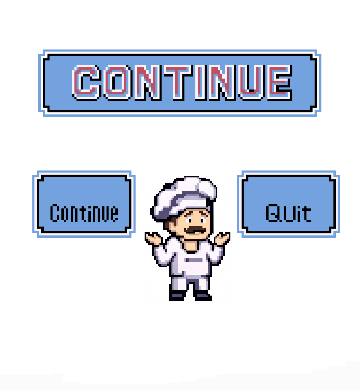
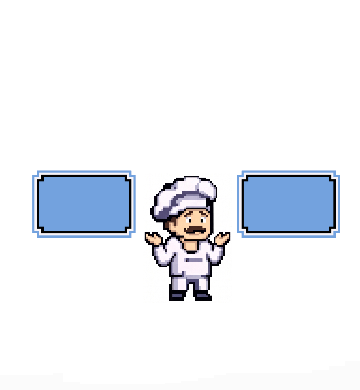
fix: lost a life

Changed region(s): [[0.0917, 0.1231, 0.9167, 0.3077], [0.1222, 0.5231, 0.3361, 0.5846], [0.7333, 0.5231, 0.8556, 0.5846]]

diff --git a/game/src/LifeLostScene.cpp b/game/src/LifeLostScene.cpp
@@ -1,5 +1,4 @@
 #include "LifeLostScene.h" // Includes GLEW, which must go before GLFW
-#include <algorithm>
 #include <GLFW/glfw3.h>
 #include "Game.h"
 
@@ -7,16 +6,14 @@
 #define LIFE_LOST_MIN_TIME 1000 // ms before ENTER is accepted, so it is not skipped by accident
 #define LIFE_LOST_MAX_TIME 3000 // ms until the level starts again by itself
 
-#define HAT_LOSE_TIME 700   // ms until the hat of the life just lost starts to blink
-#define HAT_BLINK_TIME 100  // ms of each state while it blinks
-#define HAT_BLINKS 7        // Changes between lit and gray before it stays gray
+#define LOSE_TIME 700       // ms until the number starts to blink before going down
+#define BLINK_TIME 100      // ms of each number while it blinks
+#define BLINKS 7            // Changes between both numbers before the new one stays
 
 #define CANVAS_TO_UI (UI_WIDTH / 240.f) // The image is 240 px wide
-#define HAT_Y 204.f         // Place of the hats in the image, drawn at x2 like the chef
+#define HAT_Y 204.f         // Place of the hat in the image, drawn at x2 like the chef
 #define HAT_WIDTH 50.f
 #define HAT_HEIGHT 44.f
-#define HAT_STEP 56.f       // From one hat to the next
-#define MAX_HATS 4          // The most that fit; with more lives (up to MAX_LIVES with 'Extra life') a hat and "x N" are shown
 
 // The "x" and the digits of the counter (tools/title_font.py), centered with the hat
 #define TIMES_WIDTH 17.f
@@ -37,7 +34,6 @@ void LifeLostScene::init()
 	ui.init();
 	UIRenderer::loadImage(background, "images/ui/screen_life_lost.png");
 	UIRenderer::loadImage(hat, "images/ui/screen_life_hat.png");
-	UIRenderer::loadImage(grayHat, "images/ui/screen_life_hat_gray.png");
 	UIRenderer::loadImage(times, "images/ui/screen_life_x.png");
 	for(int i = 0; i < 10; i++)
 		UIRenderer::loadImage(digits[i], "images/ui/screen_life_" + std::to_string(i) + ".png");
@@ -56,36 +52,19 @@ int LifeLostScene::update(int deltaTime)
 
 void LifeLostScene::render()
 {
-	// The life just lost blinks before it goes: its hat turns gray, or the counter goes down
-	int blink = int((currentTime - HAT_LOSE_TIME) / HAT_BLINK_TIME);
-	bool lostStillLit = currentTime < HAT_LOSE_TIME || (blink < HAT_BLINKS && blink % 2 != 0);
+	// "x N" with the lives before dying, blinking with the lives left until these stay
+	int blink = int((currentTime - LOSE_TIME) / BLINK_TIME);
+	bool lostStillShown = currentTime < LOSE_TIME || (blink < BLINKS && blink % 2 != 0);
+	float x = (240.f - (HAT_WIDTH + COUNTER_GAP + TIMES_WIDTH + TIMES_GAP + DIGIT_WIDTH)) / 2.f;
+	float textY = HAT_Y + (HAT_HEIGHT - TEXT_HEIGHT) / 2.f;
 
 	ui.begin();
 	ui.drawScreenImage(background);
-	if(lives + 1 > MAX_HATS)
-	{
-		float x = (240.f - (HAT_WIDTH + COUNTER_GAP + TIMES_WIDTH + TIMES_GAP + DIGIT_WIDTH)) / 2.f;
-		float textY = HAT_Y + (HAT_HEIGHT - TEXT_HEIGHT) / 2.f;
-
-		drawCanvasImage(hat, x, HAT_Y, HAT_WIDTH, HAT_HEIGHT);
-		x += HAT_WIDTH + COUNTER_GAP;
-		drawCanvasImage(times, x, textY, TIMES_WIDTH, TEXT_HEIGHT);
-		x += TIMES_WIDTH + TIMES_GAP;
-		drawCanvasImage(digits[lostStillLit ? lives + 1 : lives], x, textY, DIGIT_WIDTH, TEXT_HEIGHT);
-	}
-	else
-	{
-		// The lives left are lit and the one just lost (the next hat) turns gray; the rest are gray.
-		// There are always START_LIVES hats, more if 'Extra life' gave more
-		int hats = std::max(START_LIVES, lives + 1);
-		float x = (240.f - (hats * HAT_STEP - (HAT_STEP - HAT_WIDTH))) / 2.f;
-
-		for(int i = 0; i < hats; i++)
-		{
-			bool lit = i < lives || (i == lives && lostStillLit);
-			drawCanvasImage(lit ? hat : grayHat, x + i * HAT_STEP, HAT_Y, HAT_WIDTH, HAT_HEIGHT);
-		}
-	}
+	drawCanvasImage(hat, x, HAT_Y, HAT_WIDTH, HAT_HEIGHT);
+	x += HAT_WIDTH + COUNTER_GAP;
+	drawCanvasImage(times, x, textY, TIMES_WIDTH, TEXT_HEIGHT);
+	x += TIMES_WIDTH + TIMES_GAP;
+	drawCanvasImage(digits[lostStillShown ? lives + 1 : lives], x, textY, DIGIT_WIDTH, TEXT_HEIGHT);
 	ui.end();
 }
 

diff --git a/tools/make_screens.py b/tools/make_screens.py
@@ -4,9 +4,9 @@
 
 writes game/images/ui/screen_<name>.png for every entry of INTROS (Levels.h says which
 level shows each one), and the game over screen from art/screens/game-over.jpeg (screen_game_over.png).
-For the life lost screen it writes the hats of its lives from art/screens/lost-life.jpeg, lit and in
-gray (screen_life_hat.png, screen_life_hat_gray.png), and the "x" and the digits of its counter for
-many lives in the font of tools/title_font.py (screen_life_x.png, screen_life_<digit>.png).
+For the life lost screen it writes the hat of art/screens/lost-life.jpeg (screen_life_hat.png) and
+the "x" and the digits of its counter of lives in the font of tools/title_font.py (screen_life_x.png,
+screen_life_<digit>.png).
 Run it again after editing the drawings.
 
 The drawings are big upscaled JPEGs, so each one is first reduced to its real pixel grid
@@ -20,7 +20,7 @@ Some screens are not built here, because they are edited by hand: the menu, the 
 continue and life lost (screen_menu.png, screen_oven.png, screen_world_clear.png, screen_continue.png
 with screen_continue_cursor.png, screen_life_lost.png). The game draws over some of them, so if
 what it points to moves, its places must follow it: the box of options in MenuScene.cpp, the gems
-in WorldClearScene.cpp, the arrow in ContinueScene.cpp and the hats in LifeLostScene.cpp.
+in WorldClearScene.cpp, the arrow in ContinueScene.cpp and the hat in LifeLostScene.cpp.
 """
 
 import os
@@ -137,7 +137,7 @@ def make_game_over():
 	return canvas
 
 
-# The hats of lost-life.jpeg, on its grid of 120x160. LifeLostScene.cpp draws them at x2
+# The hat of lost-life.jpeg, on its grid of 120x160. LifeLostScene.cpp draws it at x2
 LIFE_HAT = (18, 130, 43, 152)  # The first hat, the one lit
 
 
@@ -161,15 +161,9 @@ def transparent_around(image, box):
 	return result
 
 
-def make_life_hats():
+def make_life_hat():
 	source = native(os.path.join('art', 'screens', 'lost-life.jpeg'), 120, 160)
-	hat = transparent_around(source, LIFE_HAT)
-	# The hat is almost white, so only taking its color away would leave it the same: it is also
-	# darkened to a middle gray, like the lost hat of the drawing (without its cross)
-	gray = hat.copy()
-	luma = (hat[..., :3].astype(float) @ (0.3, 0.59, 0.11) * 0.6).astype(np.uint8)
-	gray[..., :3] = np.stack((luma,) * 3, axis=2)
-	return hat, gray
+	return transparent_around(source, LIFE_HAT)
 
 
 def save(canvas, name):
@@ -186,9 +180,7 @@ def main():
 	for name, filename in INTROS:
 		save(make_intro(filename), name)
 	save(make_game_over(), 'game_over')
-	hat, gray = make_life_hats()
-	save(hat, 'life_hat')
-	save(gray, 'life_hat_gray')
+	save(make_life_hat(), 'life_hat')
 	save(render_title('X'), 'life_x')
 	for digit in '0123456789':
 		save(render_title(digit), 'life_' + digit)

diff --git a/game/src/LifeLostScene.h b/game/src/LifeLostScene.h
@@ -6,9 +6,8 @@
 #include "UIRenderer.h"
 
 
-// LifeLostScene is shown when the chef dies but still has lives: a hat per life, and
-// the one just lost turns gray blinking (with many lives, a hat and "x N" counting down).
-// Then the same level starts again from the beginning.
+// LifeLostScene is shown when the chef dies but still has lives: a hat and "x N",
+// counting down blinking the life just lost. Then the same level starts again from the beginning.
 
 
 class LifeLostScene : public Scene
@@ -28,8 +27,7 @@ private:
 	int lives;
 	UIRenderer ui;
 	Texture background;                // Edited by hand (screen_life_lost.png)
-	Texture hat, grayHat;              // tools/make_screens.py
-	Texture times, digits[10];         // "x N" when there are too many lives for a hat each
+	Texture hat, times, digits[10];    // The hat and "x N" (tools/make_screens.py)
 	float currentTime;
 
 };
